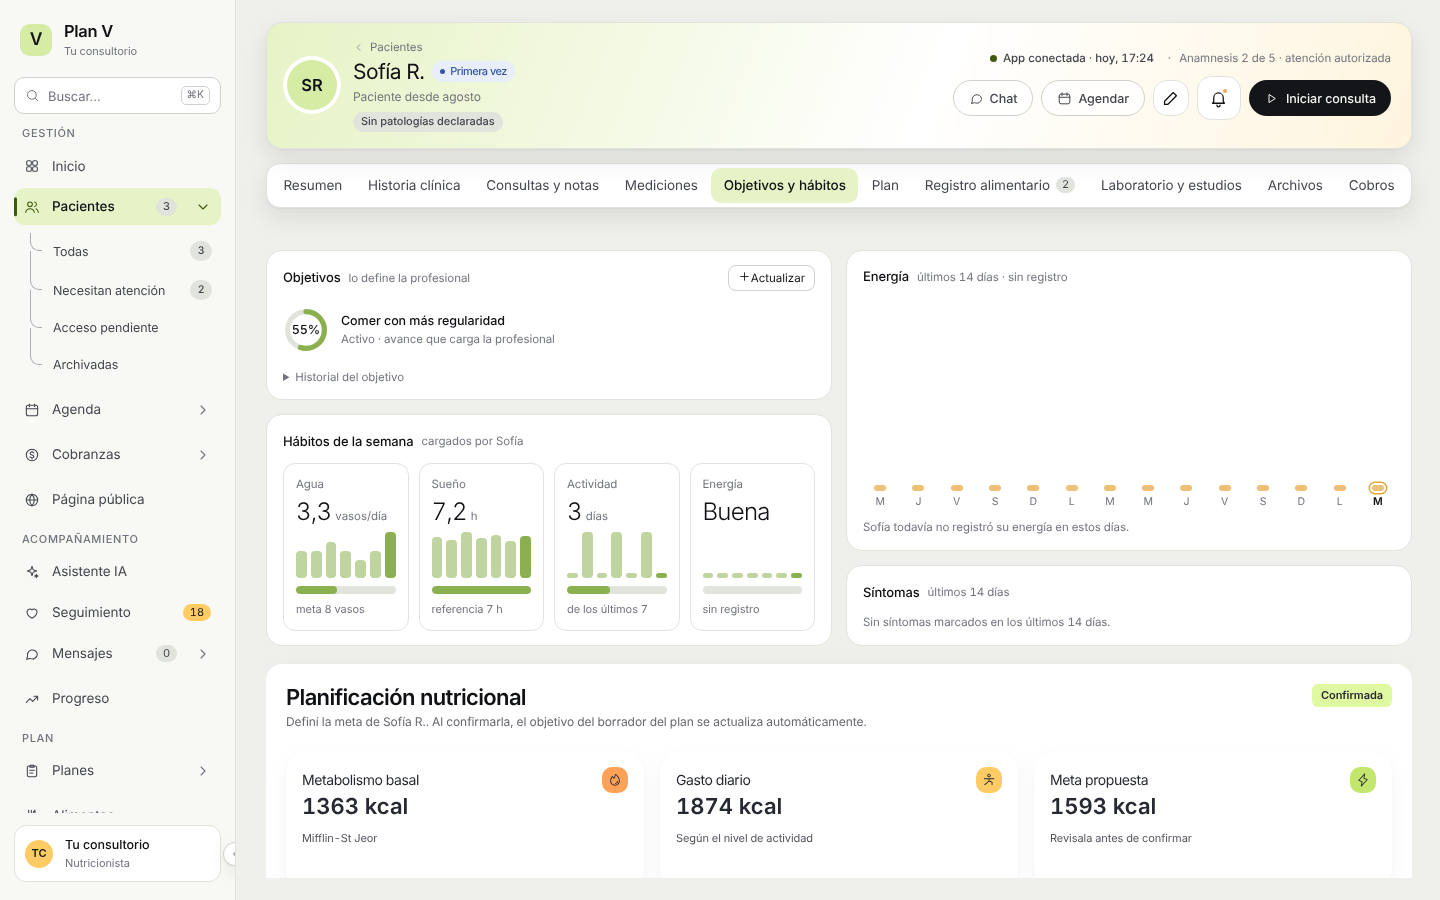
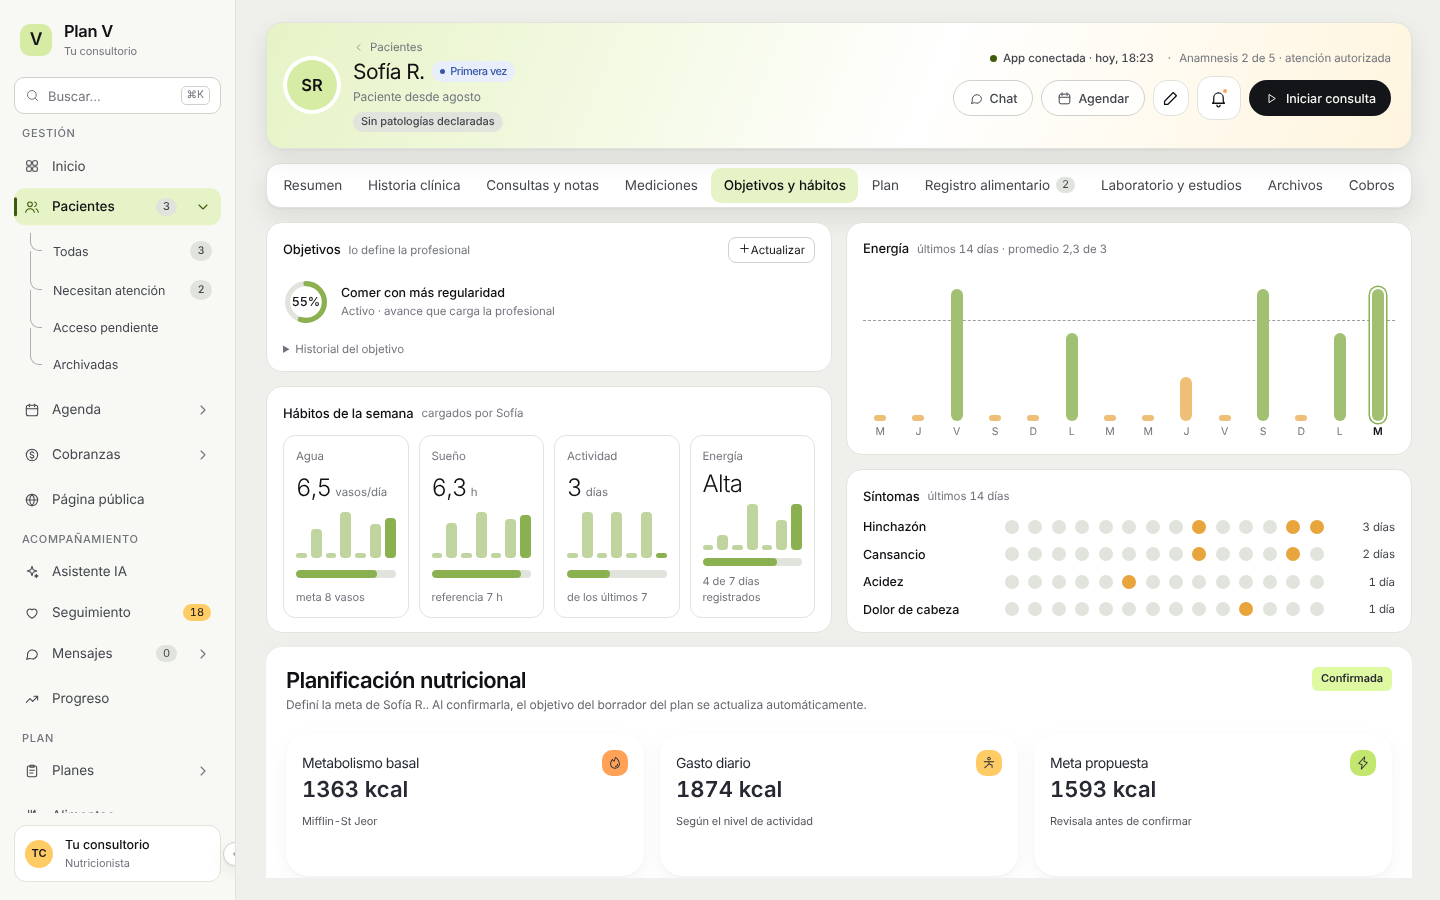
Objetivos y hábitos: sin espacio de más bajo las solapas, letra del panel y energía en Alta/Normal/Baja
Claude-Session: https://claude.ai/code/session_01XKKh7Ldv3iV1E8eWS3nciE

diff --git a/src/components/nutrigo/ProfessionalPatientWorkspace.tsx b/src/components/nutrigo/ProfessionalPatientWorkspace.tsx
@@ -85,11 +85,11 @@ export function ProfessionalPatientWorkspace({ patient, patients, onSelect, onEd
     {readyId!==patient.id?<NvState kind={refreshError?'error':'loading'} title={refreshError?'No pudimos cargar la ficha':'Cargando ficha…'} description={refreshError||'Consultando los datos actualizados de la paciente.'} action={refreshError&&<NvButton onClick={()=>setPatientRevision(n=>n+1)}>Reintentar ficha</NvButton>}/>
     :tab==='resumen'?<PanelFichaResumen key={patient.id} patient={patient} now={now} datos={datos} ir={next=>change(seccionDe(next))}>{contacto}</PanelFichaResumen>
     :tab==='evolucion'?<PanelFichaMediciones key={patient.id} patient={patient} now={now} datos={datos} ir={next=>change(seccionDe(next))}><div className="pw-record pn-record"><div className="pw-record-content"><PanelPatientMedicionesExtra patientId={patient.id} patientName={patient.name}/></div></div></PanelFichaMediciones>
+    :tab==='planificacion'?<PanelFichaObjetivos key={patient.id} patient={patient} now={now} datos={datos} onChanged={addPatient}><div className="pw-record pn-record"><div className="pw-record-content"><NutritionTargetPanel patientId={patient.id} patientName={patient.name} onOpenPlan={() => change('plan')} /></div></div></PanelFichaObjetivos>
     :<div className="pw-record pn-record"><div key={`${patient.id}:${tab}`} className="pw-record-content">
       {solapa==='plan'&&<nav className="pn-record-plan-tabs" aria-label="Secciones del plan">{RECORD_PLAN_TABS.filter(([id])=>id!=='planificacion').map(([id,label])=><button type="button" key={id} aria-current={id===tab?'page':undefined} onClick={()=>change(id)}>{label}</button>)}</nav>}
       {tab === 'historia' && <PanelFichaHistoria key={patient.id} patient={patient} now={now} datos={datos}><details id="hc-respuestas" className="pn-record-card" open><summary>Respuestas del formulario, datos importados y primer día</summary><PanelPatientHistory patientId={patient.id} now={now}/></details></PanelFichaHistoria>}
       {tab === 'notas' && <ConsultationNotes patientId={patient.id} showCompletions={false}/>}
-      {tab === 'planificacion' && <PanelFichaObjetivos key={patient.id} patient={patient} now={now} datos={datos} onChanged={addPatient}><NutritionTargetPanel patientId={patient.id} patientName={patient.name} onOpenPlan={() => change('plan')} /></PanelFichaObjetivos>}
       {tab === 'alimentario' && <PanelPatientFoodDiary patient={patient} now={now} onReview={onReview} onSelect={onSelect}/>}
       {tab === 'plan' && <PanelPatientPlan patientId={patient.id} patientName={patient.name} professionalName={professionalName} now={now} onSection={change} onChanged={()=>void refreshPatient(patient.id)}/>}
       {tab === 'semanal' && <ShowroomMealPlan patient={patient} patients={patients} query="" onSelect={onSelect} onChanged={addPatient} now={now} />}

diff --git a/src/components/nutrigo/panel-v29-app.css b/src/components/nutrigo/panel-v29-app.css
@@ -577,6 +577,8 @@
 #pv-panel-v29 .fxsel { display: flex; flex-direction: column; gap: 4px; font-size: 11.5px; color: var(--ink3); }
 #pv-panel-v29 .fxsel select { height: 34px; border: 1px solid var(--line); border-radius: 10px; background: var(--app); color: var(--ink); font: inherit; font-size: 12.5px; padding: 0 10px; }
 #pv-panel-v29 #s-ficha .pw-record { padding-top: 14px; }
+/* Lo que la Ficha todavía muestra con piezas anteriores usa la letra del resto del panel, no la de Nutrigo. */
+#pv-panel-v29 #s-ficha .pw-record, #pv-panel-v29 #s-ficha .pw-record * { font-family: var(--font); }
 /* Con datos reales las columnas pueden pedir más alto que la pantalla: la ficha se desplaza dentro de su marco en vez de aplastar las tarjetas. */
 #pv-panel-v29 #s-ficha #fwrap > .fx { flex: 1 0 auto; }
 #pv-panel-v29 #s-ficha #fwrap > .fxp { flex: none; margin-top: 14px; }

diff --git a/src/components/nutrigo/ficha-objetivos.ts b/src/components/nutrigo/ficha-objetivos.ts
@@ -10,7 +10,7 @@ const INICIALES = ['D', 'L', 'M', 'M', 'J', 'V', 'S'];
 /** Referencia general de sueño para un adulto; Plan V no guarda una meta de sueño por paciente. */
 export const HORAS_DE_SUENO_DE_REFERENCIA = 7;
 const NIVEL_DE_ENERGIA: Record<string, number> = { Alta: 3, Media: 2, Baja: 1 };
-const ETIQUETA_DE_ENERGIA: Record<string, string> = { Alta: 'con energía', Media: 'normal', Baja: 'sin energía' };
+const ETIQUETA_DE_ENERGIA: Record<string, string> = { Alta: 'Alta', Media: 'Normal', Baja: 'Baja' };
 
 /** Los últimos `cuantos` días terminando en `hoy`, del más viejo al más nuevo. */
 export function ultimosDias(hoy: string, cuantos: number) {

diff --git a/src/components/nutrigo/ficha-objetivos.test.ts b/src/components/nutrigo/ficha-objetivos.test.ts
@@ -32,7 +32,7 @@ describe('ficha-objetivos', () => {
     expect(h[0]!.valor).toBe('7');
     expect(h[1]!.valor).toBe('6,5');
     expect(h[2]!.valor).toBe('2');
-    expect(h[3]!.valor).toBe('sin energía');
+    expect(h[3]!.valor).toBe('Baja');
   });
 
   it('sin permiso de atención la actividad no se muestra', () => {

diff --git a/docs/panel-nutri-rediseno/ficha-v29.md b/docs/panel-nutri-rediseno/ficha-v29.md
@@ -143,7 +143,7 @@ Valores por defecto elegidos:
 
 ## Parte 3a · Objetivos y hábitos
 
-Solapa armada con el HTML de `objetivos:` del boceto (dos columnas: Objetivos y Hábitos de la semana a la izquierda; Energía y Síntomas a la derecha), con lo que la paciente carga en su app. Capturas: `docs/screenshots/ficha-v29/objetivos-claro.png` y `objetivos-oscuro.png` (paciente de la demo). El contrato compara 6 piezas en claro y oscuro; todas iguales.
+Solapa armada con el HTML de `objetivos:` del boceto (dos columnas: Objetivos y Hábitos de la semana a la izquierda; Energía y Síntomas a la derecha), con lo que la paciente carga en su app. Capturas: `docs/screenshots/ficha-v29/objetivos-claro.png` y `objetivos-oscuro.png` (paciente de la demo con registros de ejemplo de hábitos, energía y síntomas). El contrato compara 6 piezas en claro y oscuro; todas iguales.
 
 Valores por defecto elegidos (lo que el boceto dibuja y Plan V no tiene):
 - **Objetivos:** Plan V guarda **un solo objetivo** por paciente, con avance declarado por la profesional (no se calcula del peso). Se dibuja ese objetivo con su anillo; «Actualizar» (o «Agregar» si no hay) abre el editor de siempre y el historial queda en un desplegable. Los otros cuatro objetivos del boceto («se actualizan solos») no existen todavía y **no se inventan**.
@@ -151,7 +151,8 @@ Valores por defecto elegidos (lo que el boceto dibuja y Plan V no tiene):
 - **Energía en vez de Ánimo:** el boceto muestra el ánimo de 1 a 5; la app solo guarda energía Alta, Media o Baja. Se dibujan los 14 días en tres niveles y el promedio de 1 a 3. El bloque queda aunque no haya datos.
 - **Síntomas:** los que la paciente marcó en 14 días, del más repetido al menos; sin ninguno, un texto corto. No se dibuja el «cuándo» del síntoma («después del almuerzo»): no se guarda.
 - **«Relación que ve la IA»:** no se dibuja; no hay función real detrás.
-- Debajo sigue la «Planificación nutricional» de siempre (metabolismo, gasto, meta).
+- Debajo sigue la «Planificación nutricional» de siempre (metabolismo, gasto, meta), con la letra del resto del panel (SF Pro); la solapa se arma sin el margen extra de las pantallas anteriores, igual que Mediciones.
+- **Energía del último registro:** se muestra como Alta, Normal o Baja.
 
 ### Paso 10 · Objetivos y hábitos
 - **Flujos:** actualizar/agregar el objetivo (editor existente, sin cambios); lectura de hábitos, energía y síntomas (✅ 7 pruebas de cálculo y 2 de pantalla).
